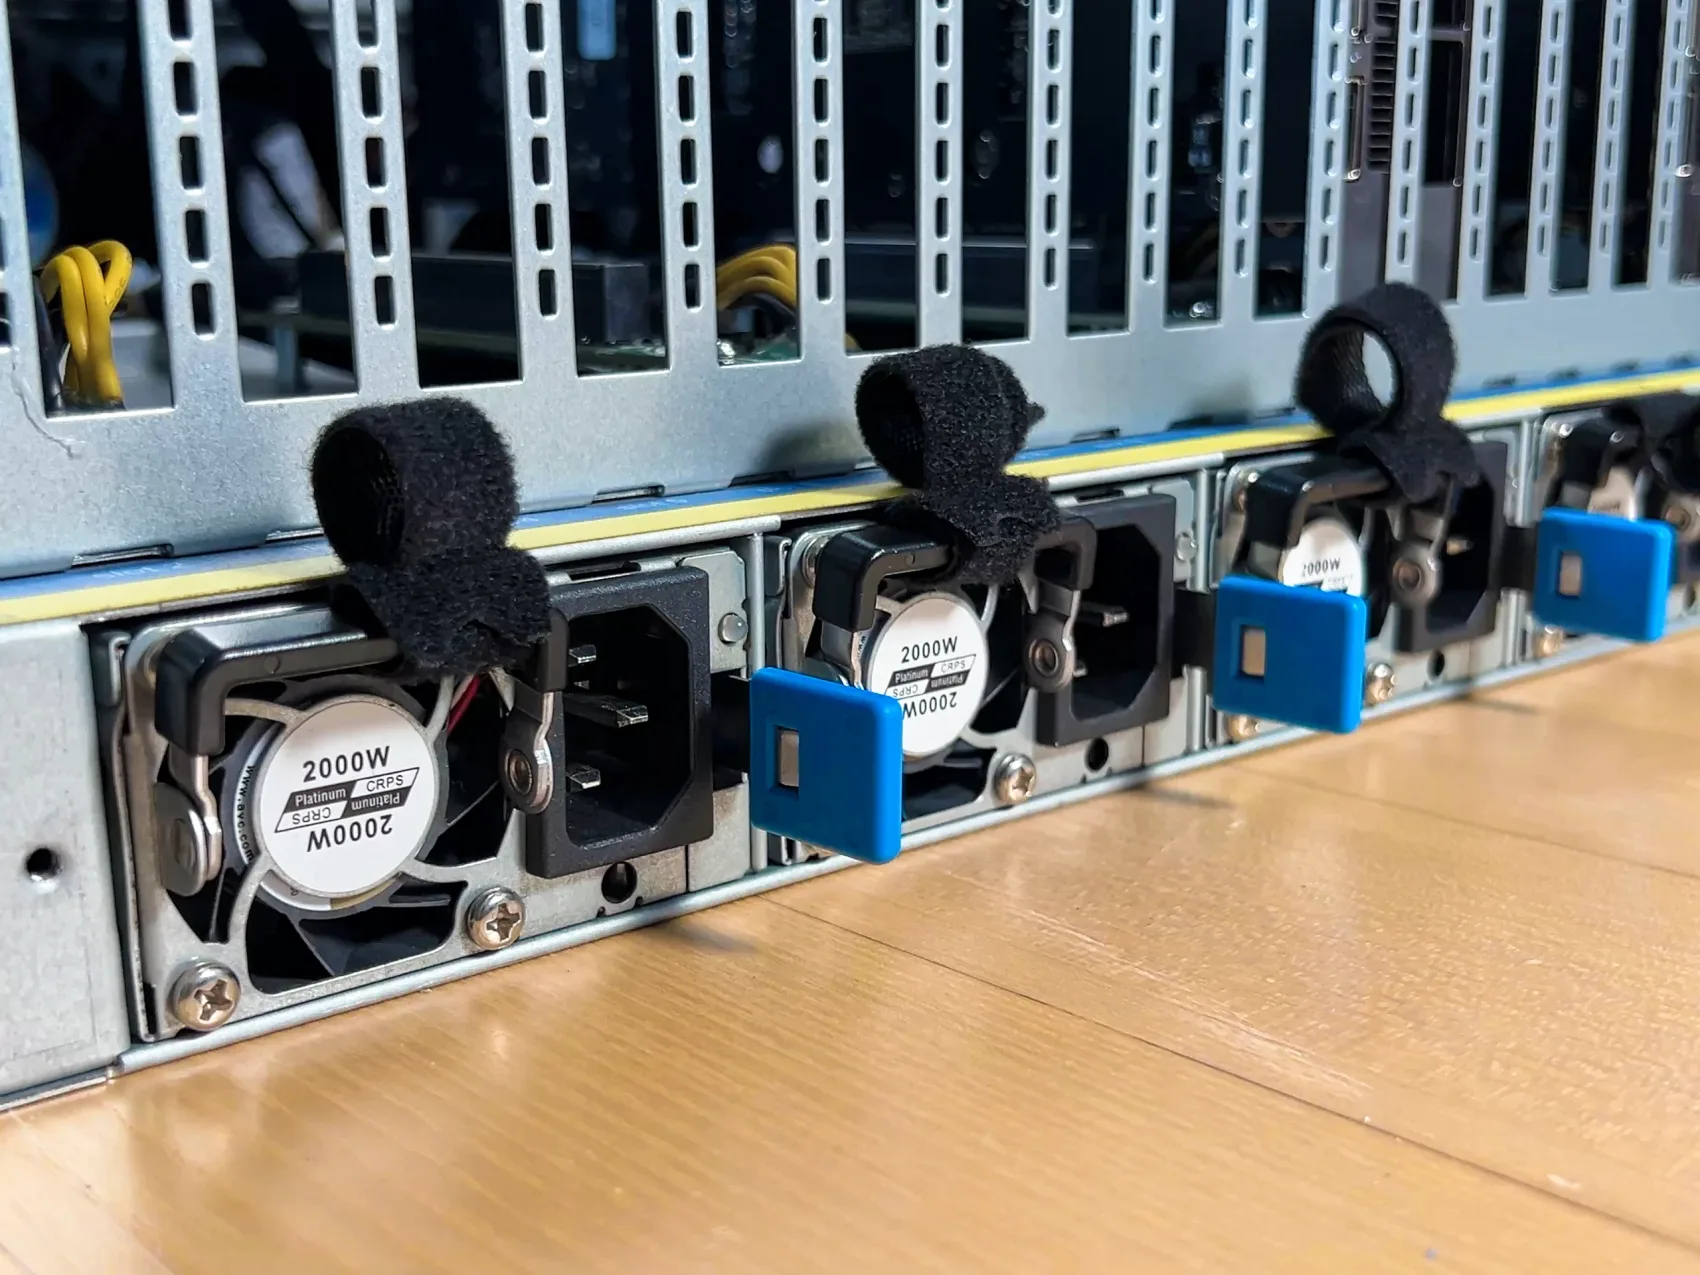
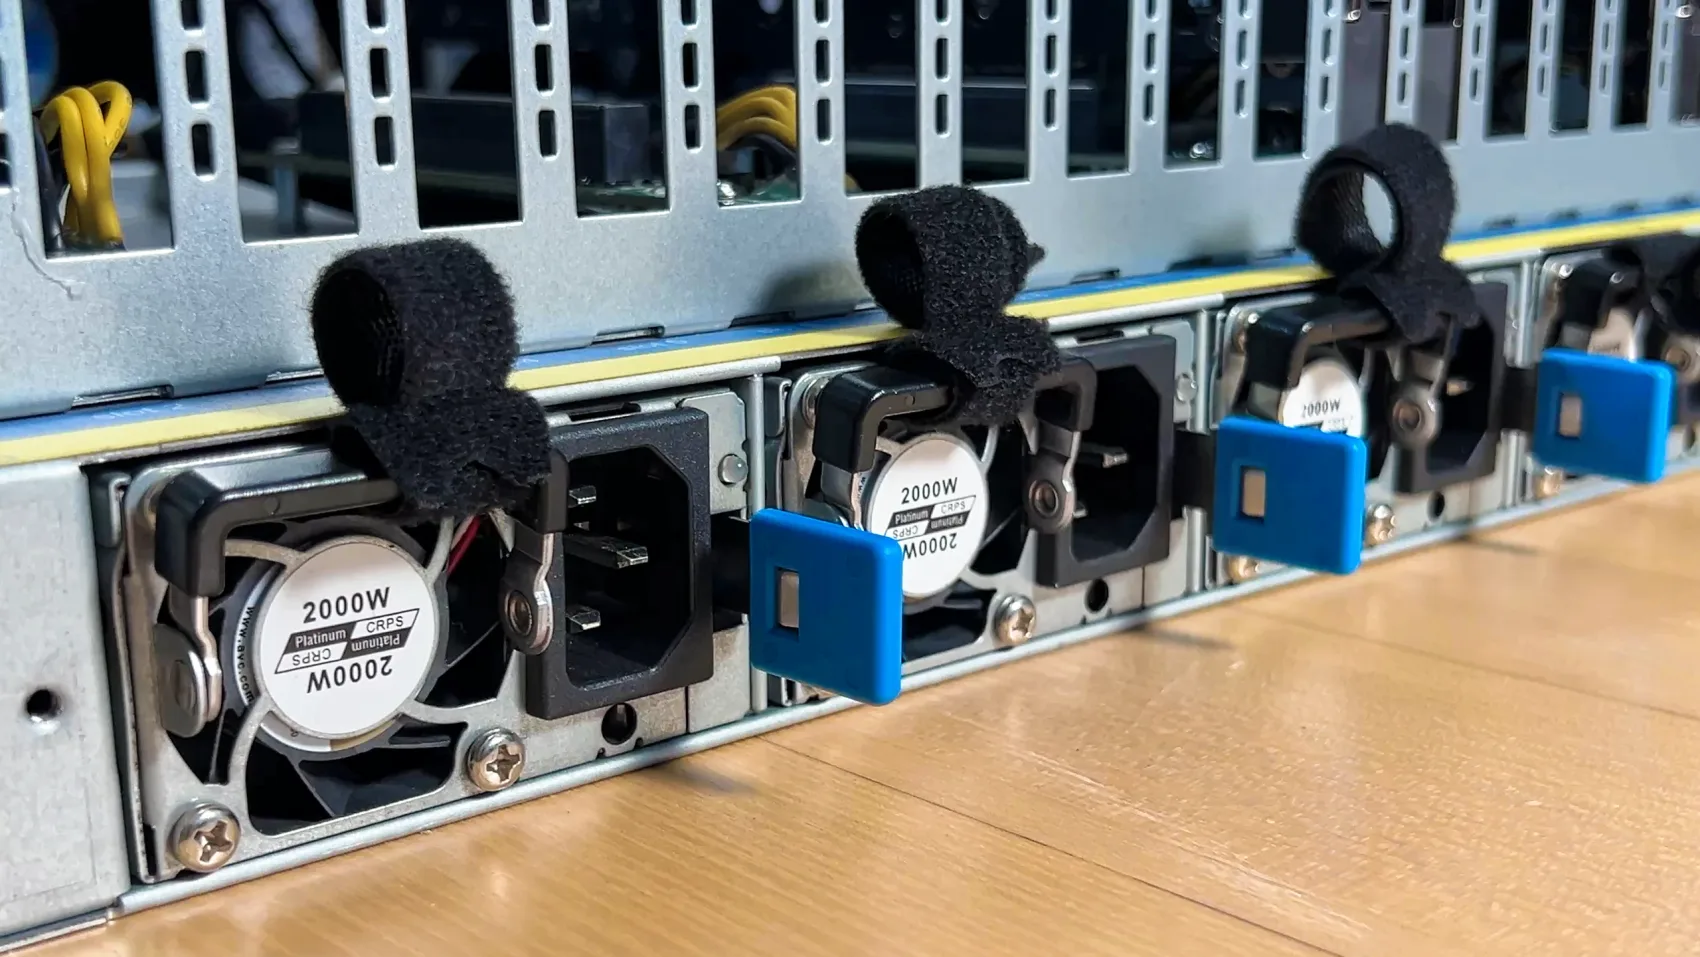
8x-5090: even 2x2 photo grid like 4x-5090 (crop two shots to 16:9)
Match the 4x-5090 layout — a plain 2x2, 50/50 cells. Cropped card-install and psu-rear from 4:3 to 16:9 so all four photos share one aspect and the grid is even.

diff --git a/8x-5090/README.md b/8x-5090/README.md
@@ -23,8 +23,12 @@ The on-prem build, for business: eight GPUs on a dual-EPYC (Genoa) platform in a
 
 <table>
 <tr>
-<td width="56%" valign="top"><img src="photos/gallery/dual-socket-board.webp" alt="The dual-EPYC (Genoa) board — two SP5 sockets and twenty-four DIMM slots"><br><img src="photos/gallery/interior-topdown.webp" alt="Top-down — the PCIe adapter boards, the center fan wall, and the MCIO cabling"></td>
-<td width="44%" valign="top"><img src="photos/gallery/card-install.webp" alt="Seating an RTX 5090 into the chassis"><br><img src="photos/gallery/psu-rear.webp" alt="The rear — 2,000 W CRPS power modules"></td>
+<td width="50%"><img src="photos/gallery/dual-socket-board.webp" alt="The dual-EPYC (Genoa) board — two SP5 sockets and twenty-four DIMM slots"></td>
+<td width="50%"><img src="photos/gallery/card-install.webp" alt="Seating an RTX 5090 into the chassis"></td>
+</tr>
+<tr>
+<td width="50%"><img src="photos/gallery/interior-topdown.webp" alt="Top-down — the PCIe adapter boards, the center fan wall, and the MCIO cabling"></td>
+<td width="50%"><img src="photos/gallery/psu-rear.webp" alt="The rear — 2,000 W CRPS power modules"></td>
 </tr>
 </table>
 